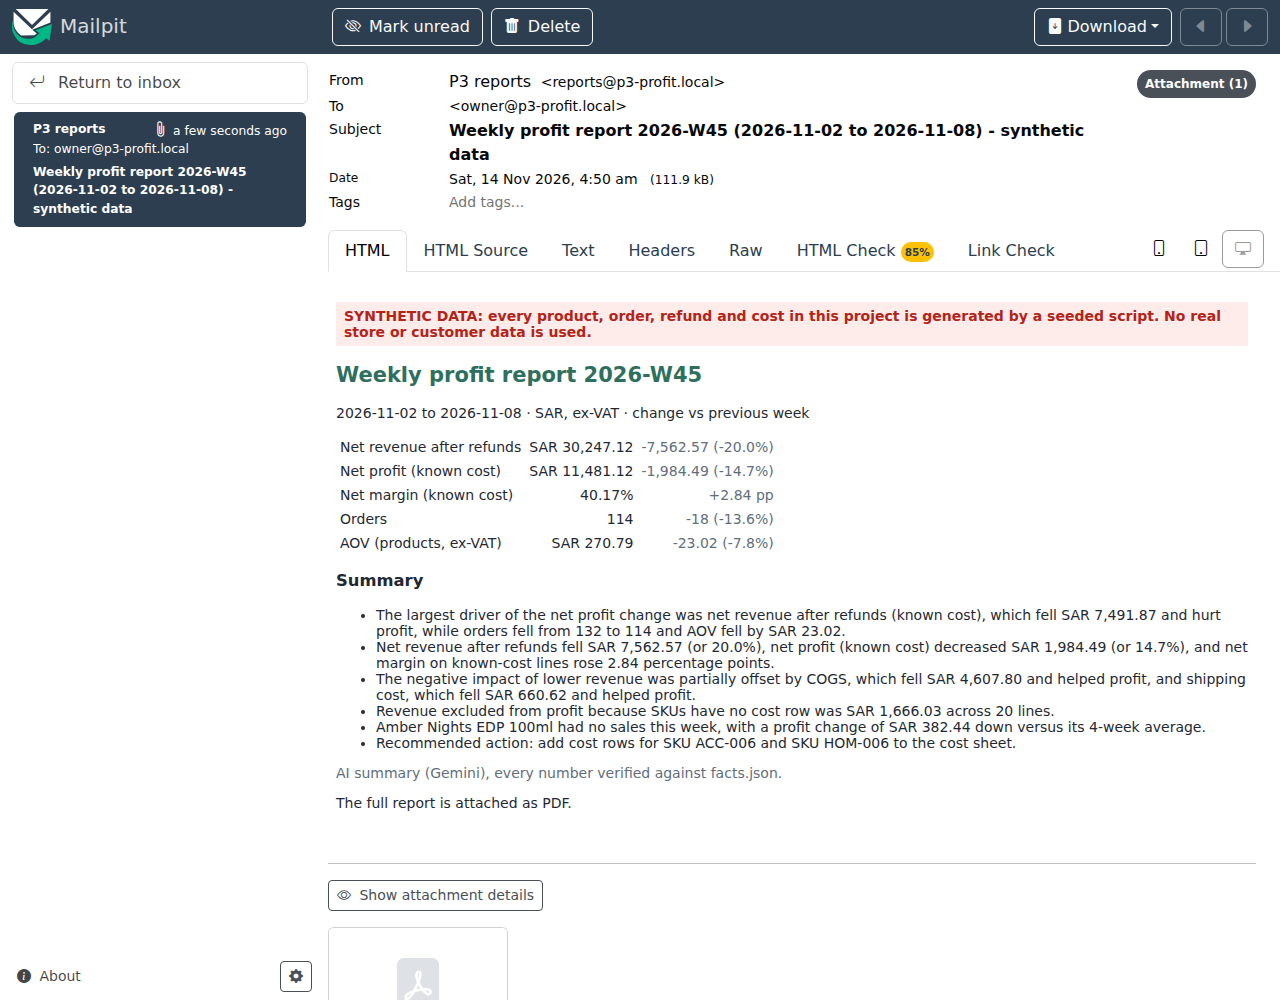
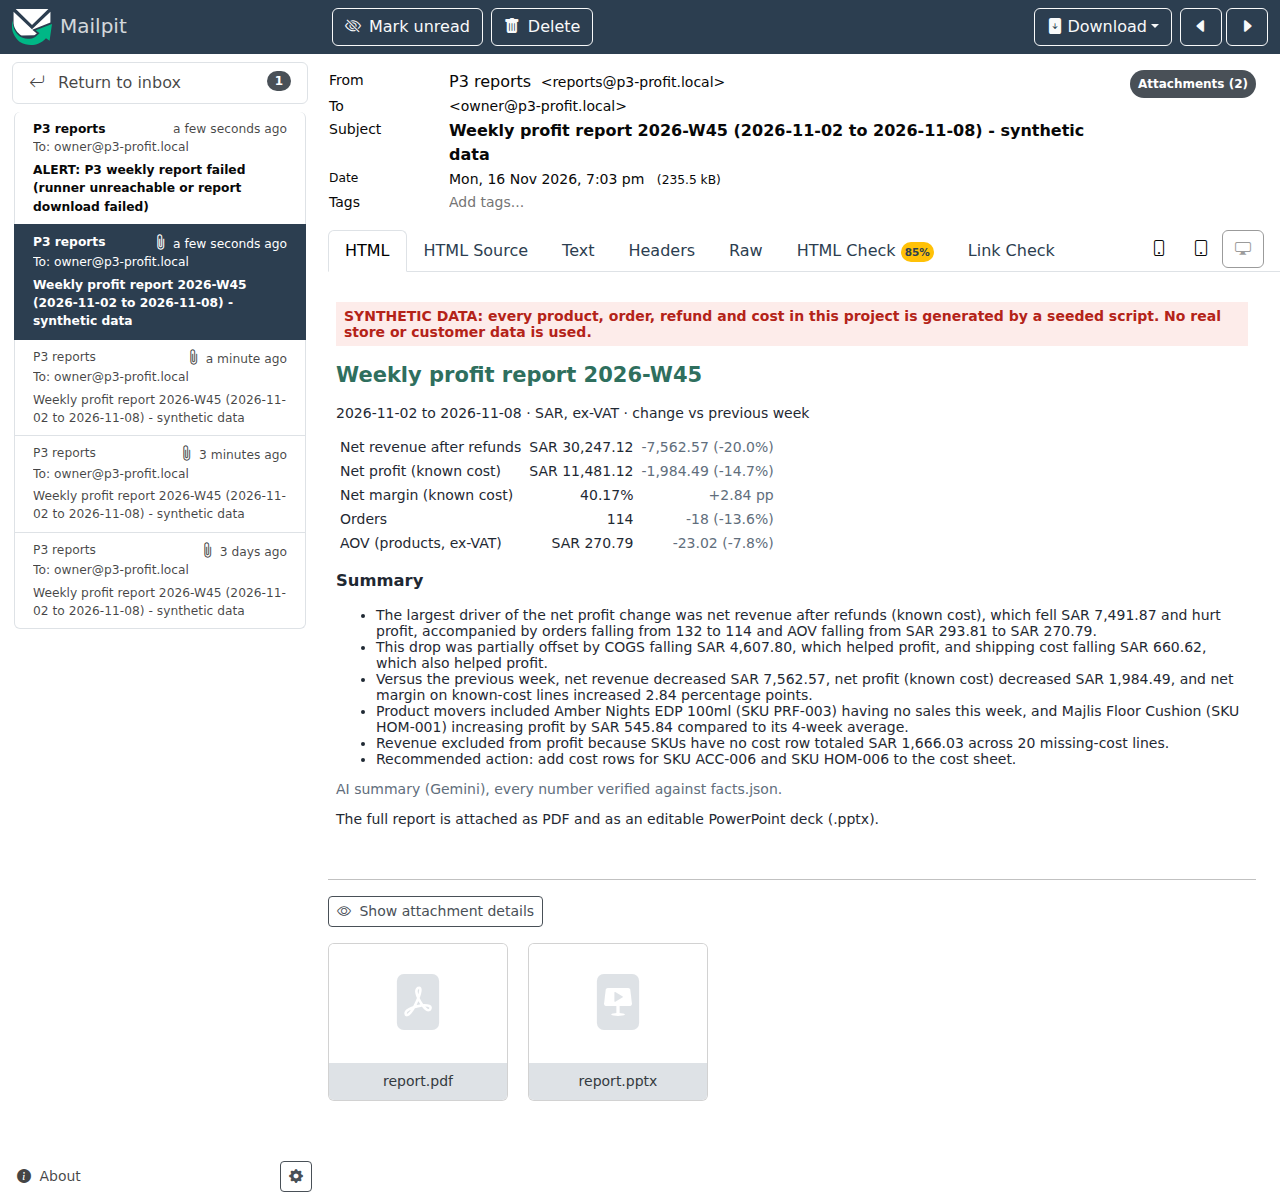
Runner + n8n: attach the editable PowerPoint next to the PDF (REPORT_ATTACH_PPTX, default on)
The runner builds report.pptx when the setting is on, lists it in files, serves it
with the right media type and says so in the email. The workflow downloads it
behind an 'Attach PPTX?' check and keeps the PDF binary next to it; the email node
attaches only what is present. Tested in n8n 2.47.2 + Mailpit: on (PDF + PPTX),
off (PDF only) and runner down (alert).

diff --git a/src/p3/runner.py b/src/p3/runner.py
@@ -27,9 +27,12 @@ from p3.config import Settings
 from p3.llm.base import redact
 
 ISO_WEEK_RE = re.compile(r"^\d{4}-W\d{2}$")
-FILE_RE = re.compile(r"^(?:report(?:\.ar)?\.(?:pdf|html)|facts(?:\.ar)?\.json|preview(?:\.ar)?\.png)$")
+FILE_RE = re.compile(r"^(?:report(?:\.ar)?\.(?:pdf|html|pptx)|facts(?:\.ar)?\.json|preview(?:\.ar)?\.png)$")
 FORBIDDEN_HOSTS = {"0.0.0.0", "::", "[::]"}
 PLACEHOLDER_TOKENS = {"", "change-me"}
+MEDIA_TYPES = {".pptx": "application/vnd.openxmlformats-officedocument.presentationml.presentation",
+               ".pdf": "application/pdf", ".json": "application/json", ".html": "text/html; charset=utf-8",
+               ".png": "image/png"}
 HEADLINE_KPIS = ["net_revenue", "net_profit", "net_margin_pct_known_cost", "orders", "aov_ex_vat_products"]
 
 
@@ -80,10 +83,11 @@ def default_steps(settings: Settings, mock_store: bool) -> Steps:
 
     def report(req: RunRequest) -> dict:
         with connect(settings) as conn:
-            files = build_report(conn, settings, week=req.week, lang=req.lang, use_ai=req.use_ai)
+            files = build_report(conn, settings, week=req.week, lang=req.lang, use_ai=req.use_ai,
+                                 formats=("pdf", "pptx") if settings.report_attach_pptx else ("pdf",))
         facts = json.loads(files.facts.read_text(encoding="utf-8"))
         return {"facts": facts, "files": {p.suffix.lstrip("."): f"/files/{files.directory.name}/{p.name}"
-                                          for p in (files.facts, files.html, files.pdf)}}
+                                          for p in (files.facts, files.html, files.pdf, files.pptx) if p}}
 
     return Steps(ingest, dbt_build, report)
 
@@ -149,7 +153,7 @@ def create_runner_app(settings: Settings, steps: Steps | None = None, mock_store
         path = Path(settings.reports_dir) / iso_week / name
         if not path.is_file():
             raise HTTPException(404, "not found")
-        return FileResponse(path, filename=name)
+        return FileResponse(path, filename=name, media_type=MEDIA_TYPES.get(path.suffix))
 
     @app.exception_handler(HTTPException)
     async def http_error(_: Request, exc: HTTPException) -> JSONResponse:
@@ -179,6 +183,8 @@ def report_email(body: dict) -> dict:
     notice = f"<p style='color:#8a5a00'><b>{html.escape(s['notice'])}</b></p>" if s.get("notice") else ""
     bullets = "".join(f"<li>{html.escape(b)}</li>" for b in s["bullets"] or [])
     subject = f"Weekly profit report {week['iso_week']} ({week['start']} to {week['end']}) - synthetic data"
+    attached = ("The full report is attached as PDF and as an editable PowerPoint deck (.pptx)."
+                if "pptx" in body.get("files", {}) else "The full report is attached as PDF.")
     html_body = (
         f"<div style='font-family:Arial,sans-serif;font-size:14px;color:#1f2933'>"
         f"<p style='background:#fdecea;color:#b42318;padding:6px 8px'><b>{html.escape(body['notice'])}</b></p>"
@@ -186,7 +192,7 @@ def report_email(body: dict) -> dict:
         f"<p>{html.escape(week['start'])} to {html.escape(week['end'])} · SAR, ex-VAT · change vs previous week</p>"
         f"<table cellpadding='4' style='border-collapse:collapse'>{rows}</table>"
         f"<h3>Summary</h3>{notice}<ul>{bullets}</ul><p style='color:#616e7c'>{source}.</p>"
-        f"<p>The full report is attached as PDF.</p></div>")
+        f"<p>{attached}</p></div>")
     text = "\n".join([body["notice"], "", subject, ""] + [f"- {b}" for b in s["bullets"] or []])
     return {"subject": subject, "html": html_body, "text": text}
 

diff --git a/tests/test_runner.py b/tests/test_runner.py
@@ -95,3 +95,50 @@ def test_refuses_placeholder_token_and_all_interfaces(tmp_path: Path) -> None:
         create_runner_app(Settings(runner_api_token="change-me"), ok_steps([]))
     with pytest.raises(ValueError, match="all interfaces"):
         serve(settings(tmp_path), "0.0.0.0", 8770, False)
+
+
+def test_pptx_is_listed_attached_and_downloadable(tmp_path: Path) -> None:
+    steps = ok_steps([])
+    steps.report = lambda req: {"facts": FACTS, "files": {"pdf": "/files/2026-W45/report.pdf",
+                                                          "pptx": "/files/2026-W45/report.pptx"}}
+    client = TestClient(create_runner_app(settings(tmp_path), steps))
+    body = client.post("/run", headers=AUTH).json()
+    assert body["files"]["pptx"] == "/files/2026-W45/report.pptx"
+    assert "editable PowerPoint deck (.pptx)" in body["email"]["html"]
+    (tmp_path / "2026-W45").mkdir()
+    (tmp_path / "2026-W45" / "report.ar.pptx").write_bytes(b"PK\x03\x04 deck")
+    r = client.get("/files/2026-W45/report.ar.pptx", headers=AUTH)
+    assert r.status_code == 200 and r.content == b"PK\x03\x04 deck"
+    assert r.headers["content-type"] == "application/vnd.openxmlformats-officedocument.presentationml.presentation"
+
+
+def test_pdf_only_email_does_not_mention_pptx(tmp_path: Path) -> None:
+    body = TestClient(create_runner_app(settings(tmp_path), ok_steps([]))).post("/run", headers=AUTH).json()
+    assert "pptx" not in body["files"] and "PowerPoint" not in body["email"]["html"]
+    assert "attached as PDF." in body["email"]["html"]
+
+
+@pytest.mark.parametrize(("attach", "formats"), [(True, ("pdf", "pptx")), (False, ("pdf",))])
+def test_report_step_builds_pptx_only_when_the_setting_is_on(tmp_path: Path, monkeypatch: pytest.MonkeyPatch,
+                                                             attach: bool, formats: tuple[str, ...]) -> None:
+    import contextlib
+
+    import p3.db.connection
+    import p3.report.build
+    from p3.report.build import ReportFiles
+    from p3.runner import RunRequest, default_steps
+
+    seen: dict = {}
+    d = tmp_path / "2026-W45"
+    d.mkdir()
+    (d / "facts.json").write_text(json.dumps(FACTS), encoding="utf-8")
+
+    def fake_build(conn: object, s: Settings, **kw: object) -> ReportFiles:
+        seen.update(kw)
+        return ReportFiles(d, d / "facts.json", d / "report.html", d / "report.pdf", None, None,
+                           d / "report.pptx" if "pptx" in kw["formats"] else None)
+    monkeypatch.setattr(p3.report.build, "build_report", fake_build)
+    monkeypatch.setattr(p3.db.connection, "connect", lambda s: contextlib.nullcontext())
+    out = default_steps(settings(tmp_path, report_attach_pptx=attach), mock_store=True).report(RunRequest())
+    assert seen["formats"] == formats
+    assert ("pptx" in out["files"]) is attach and out["files"]["pdf"] == "/files/2026-W45/report.pdf"

diff --git a/src/p3/config.py b/src/p3/config.py
@@ -37,6 +37,8 @@ class Settings(BaseSettings):
     llm_price_output_per_mtok: str = ""
     report_lang: str = "en"
     reports_dir: Path = Path("reports")
+    # Runner/n8n: also build report.pptx (editable PowerPoint) and attach it to the weekly email next to the PDF.
+    report_attach_pptx: bool = True
 
     runner_api_token: str = ""
     runner_host: str = "127.0.0.1"

diff --git a/n8n/README.md b/n8n/README.md
@@ -2,10 +2,14 @@
 
 `workflows/weekly_report.json` runs **every Monday at 08:00 Asia/Riyadh**. It:
 1. calls the P3 runner on the host: `POST /run` runs ingest → dbt build → report for the last full week;
-2. if the run succeeded, downloads the PDF (`GET /files/<iso-week>/report.pdf`) and emails it to Mailpit, with the
-   headline KPIs and the AI summary in the body;
+2. if the run succeeded, downloads the PDF (`GET /files/<iso-week>/report.pdf`) and the editable PowerPoint deck
+   (`report.pptx`), and emails both to Mailpit, with the headline KPIs and the AI summary in the body;
 3. otherwise sends an **alert email** with the error. The three failure cases are: the runner is unreachable, a
-   pipeline step failed (the step is named), or the PDF download failed.
+   pipeline step failed (the step is named), or a report download failed.
+
+The deck is behind the runner setting `REPORT_ATTACH_PPTX` (default `true`). With `false` the runner builds only the
+PDF, the run response has no `files.pptx`, the **Attach PPTX?** node skips the download and the email carries the
+PDF alone.
 
 The workflow file contains **no secrets**. The runner token lives in an n8n credential named `P3 runner API`
 (Header Auth), and SMTP in a credential named `Mailpit SMTP`.
@@ -58,6 +62,8 @@ docker exec p3-n8n n8n publish:workflow --id=p3WeeklyReport01      # schedule it
 ## Verified
 
 The flow was tested end to end against the real n8n 2.47.2 and Mailpit v1.32.0 containers:
-- **success:** the email arrived with `report.pdf` attached, the KPIs and the verified AI summary;
+- **success:** the email arrived with `report.pdf` and `report.pptx` attached (the deck opens with 7 slides), the
+  KPIs and the verified AI summary;
+- **`REPORT_ATTACH_PPTX=false`:** the email arrived with `report.pdf` only and says "attached as PDF";
 - **runner stopped:** an alert email arrived ("runner unreachable", `ECONNREFUSED`);
 - **store API down:** an alert email arrived naming the failed step (`ingest`).
